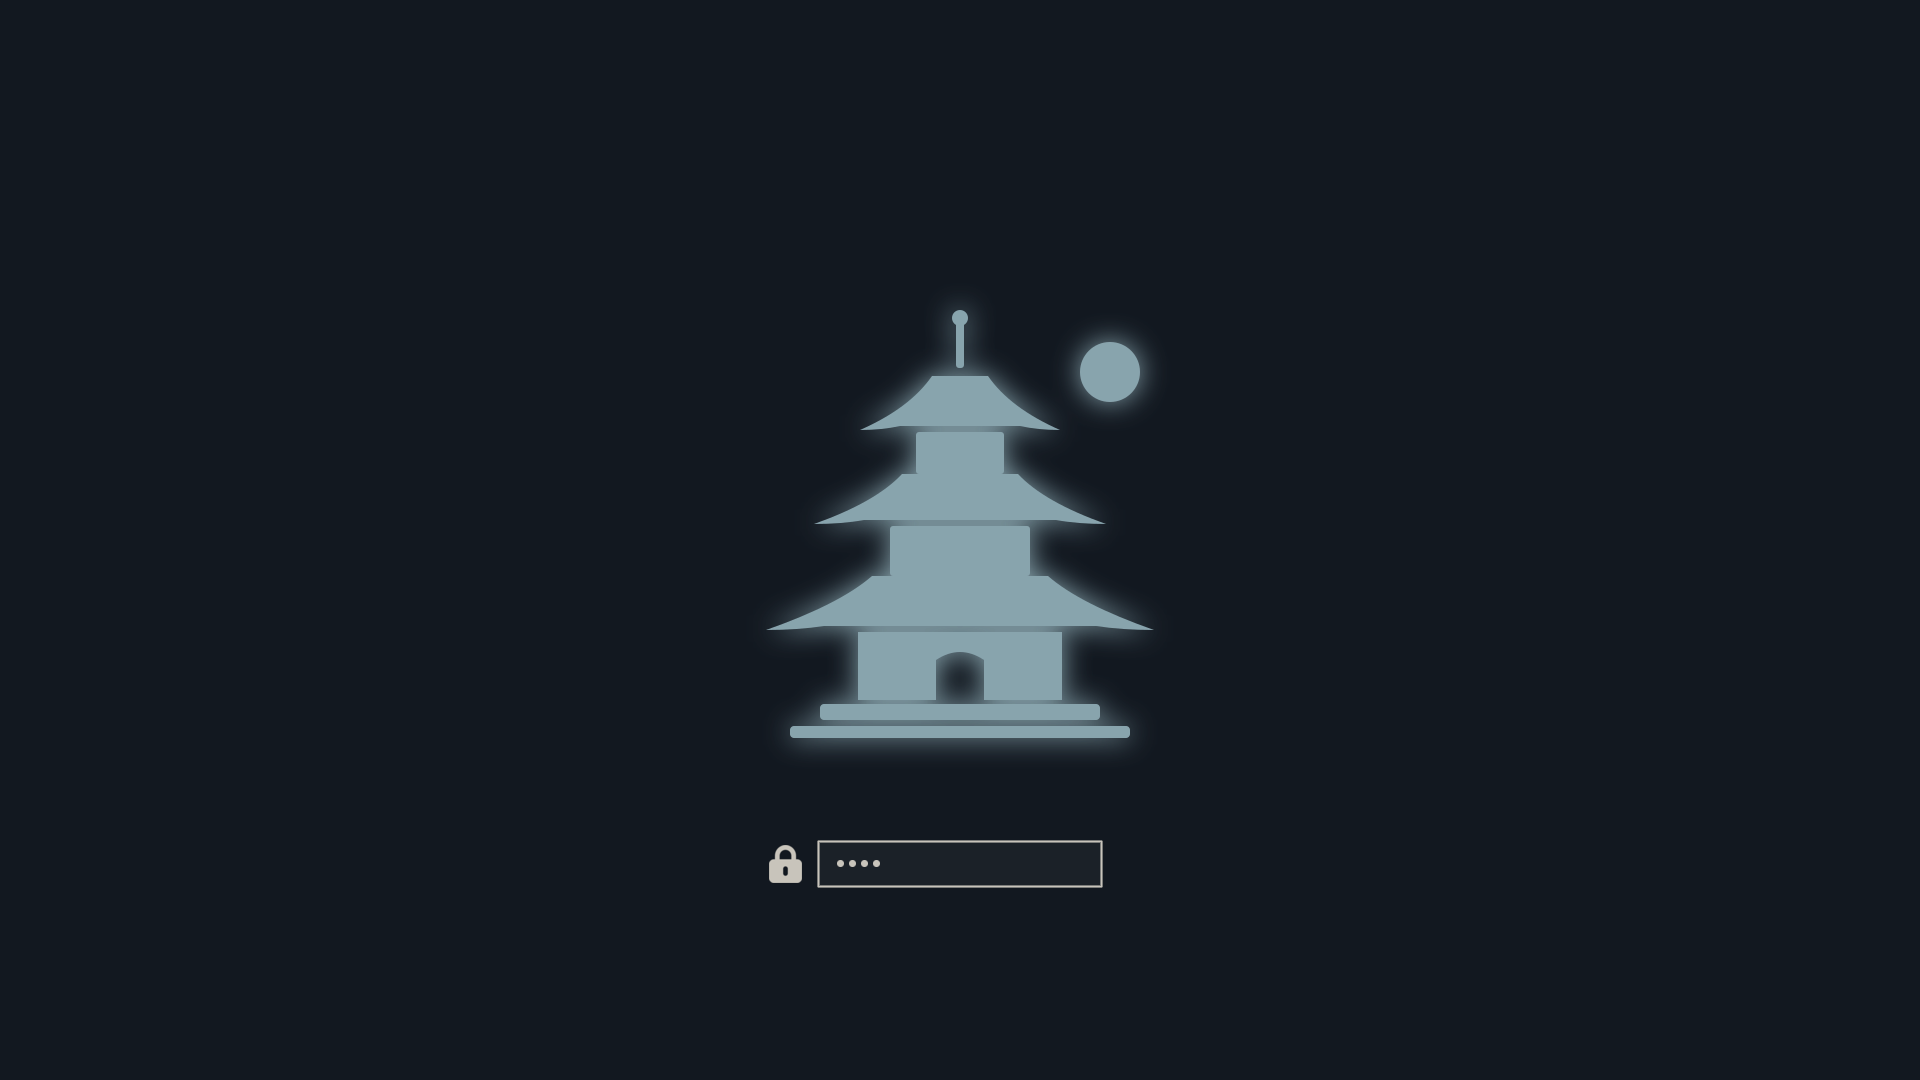
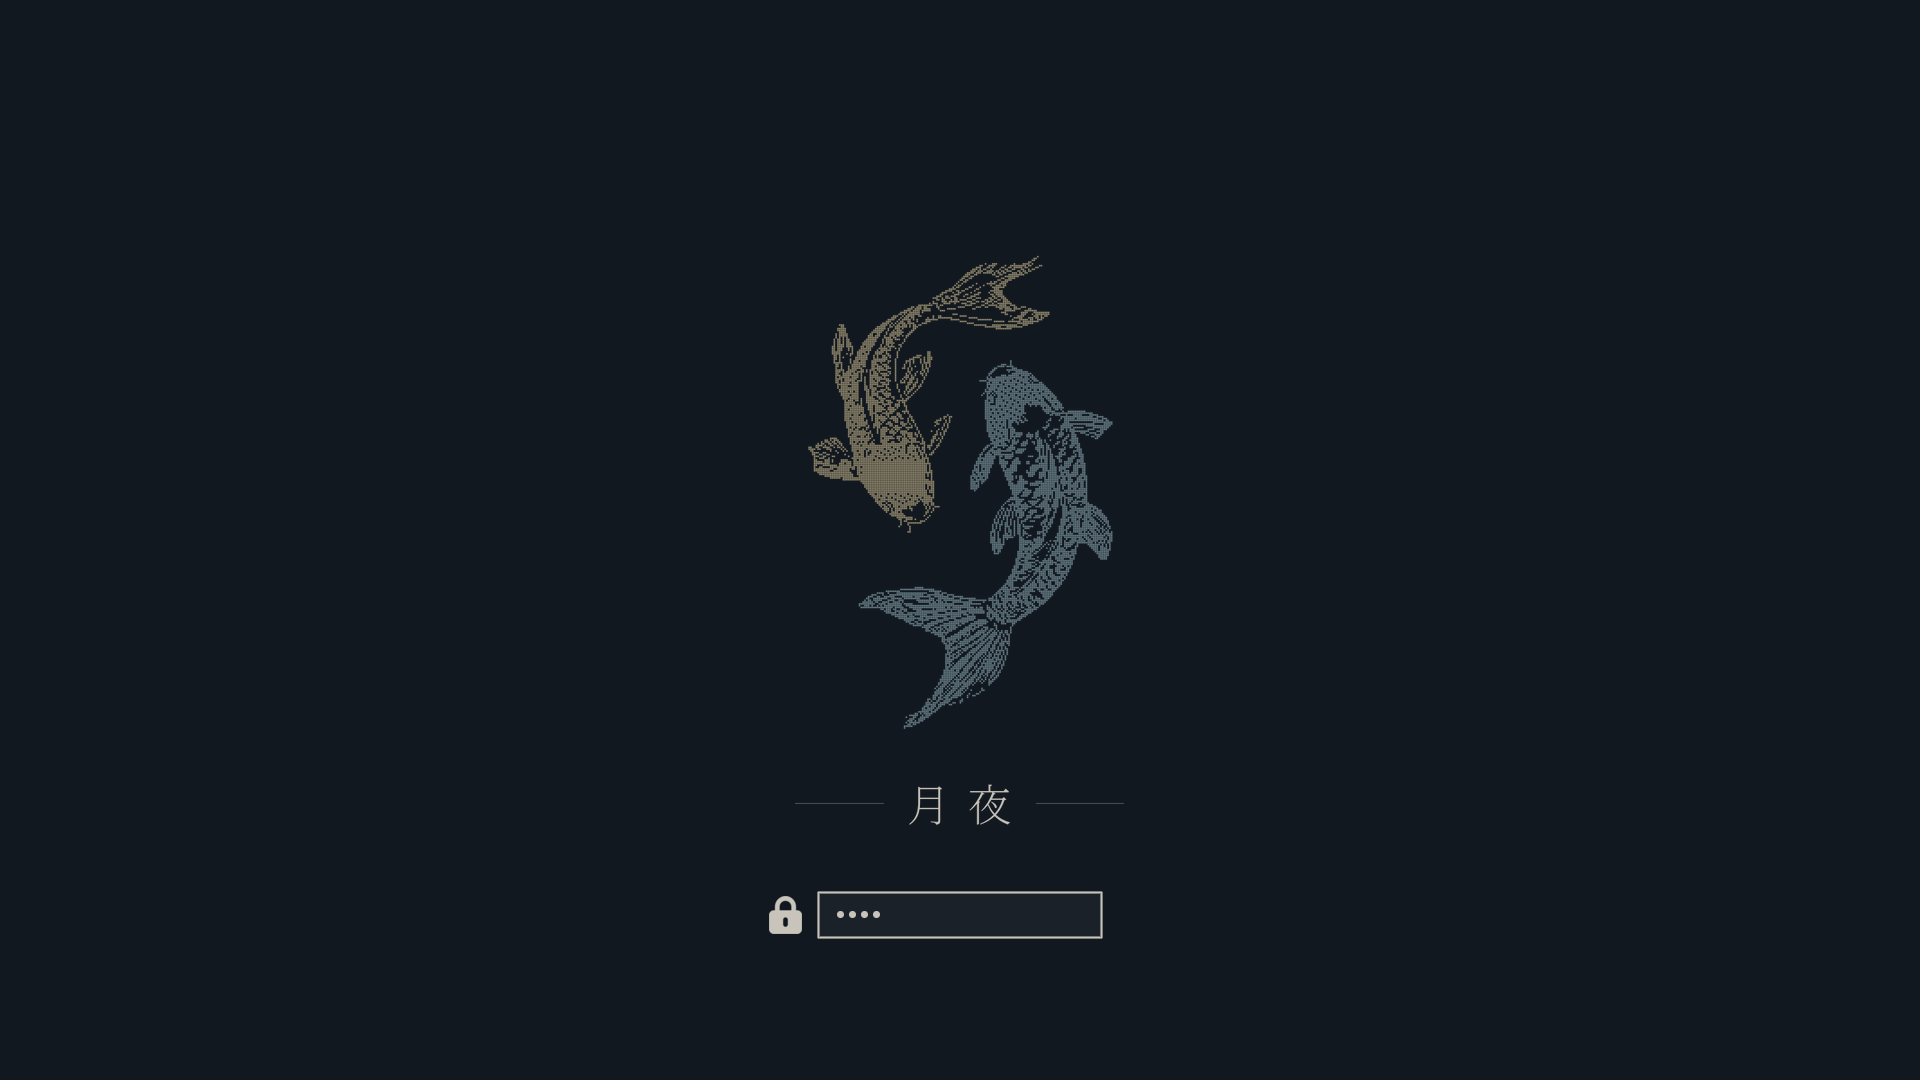
Koi everywhere: fastfetch, boot screen and preview; 月夜 on the lock screen

Changed region(s): [[0.4062, 0.2444, 0.625, 0.7028], [0.375, 0.7639, 0.4688, 0.8861], [0.4688, 0.7333, 0.5312, 0.7639]]

diff --git a/extras/lock/LockView.qml b/extras/lock/LockView.qml
@@ -247,19 +247,20 @@ Item {
         }
       }
 
-      // 城 between two hairlines: the castle, signed like a print
+      // 月夜 between two hairlines, signed like a print (as on the boot screen)
       Row {
         anchors.horizontalCenter: parent.horizontalCenter
         spacing: 14 * root.unit
 
         Rectangle { width: 44 * root.unit; height: 1; color: root.faint; anchors.verticalCenter: parent.verticalCenter }
         Text {
-          text: "城"
+          text: "月夜"
           color: root.mist
           opacity: 0.85
           font.family: root.serif
           font.weight: Font.Light
           font.pixelSize: 18 * root.unit
+          font.letterSpacing: 6 * root.unit
         }
         Rectangle { width: 44 * root.unit; height: 1; color: root.faint; anchors.verticalCenter: parent.verticalCenter }
       }

diff --git a/README.md b/README.md
@@ -1,6 +1,6 @@
 # Tsukiyo 月夜 for Omarchy
 
-![Tsukiyo: fastfetch and Neovim on the castle wallpaper](preview.png)
+![Tsukiyo: the koi in fastfetch and Neovim on the castle wallpaper](preview.png)
 
 *Tsukiyo* means a moonlit night. A calm, dark Omarchy theme: blue-teal ink, parchment
 text, a mist-slate accent, and warm moonlight kept for the small details. Minimal, but
@@ -47,7 +47,8 @@ It never installs packages and never changes your cursor or icon theme.
 
 ## Boot screen
 
-Tsukiyo ships an `unlock.png` (a pagoda under the moon) for the disk-unlock screen:
+Tsukiyo ships an `unlock.png` for the disk-unlock screen: two koi circling, one in moonlight
+and one in mist, above 月夜 between hairlines. The same koi greet you in fastfetch.
 
 ```bash
 omarchy plymouth set by theme tsukiyo
